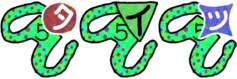
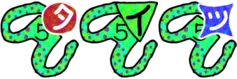
色調整

diff --git a/materials/p.rb b/materials/p.rb
@@ -6,7 +6,8 @@ sizes=[]
   d = (85 * 0.65**((L-level)/L.to_f)).round
   sizes<<[level,d]
   puts "d=#{d}"
-  sat = (level*100.0/L).round
+  satLBase = 2
+  sat = ((level+satLBase)*150.0/(L+satLBase)).round
   %w( ta i tu ).each do |x|
     dest = "tmp/#{x}.png"
     %x(convert t#{level}.png -trim -resize 200x200 -background transparent -gravity center -extent 200x200 tmp/tmp.png)
